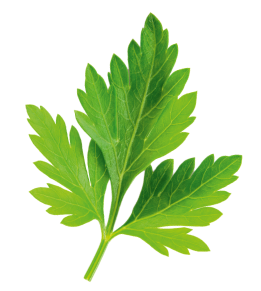
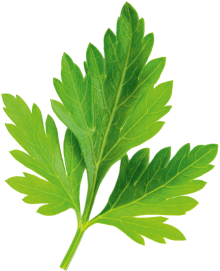
paralax images fix size

Changed region(s): [[0.0, 0.0, 1.0, 1.0], [0.6545, 0.4133, 0.6818, 0.4428]]

diff --git a/css/main.scss b/css/main.scss
@@ -373,6 +373,9 @@ body {
     object-fit: contain;
   }
 }
+// [data-paralax-item] {
+//   background-color: rgba(255, 255, 255, 0.1);
+// }
 
 .second-screen__block {
   &[data-block="1"] {
@@ -399,20 +402,20 @@ body {
     }
     [data-paralax-item="1"] {
       position: absolute;
-      left: -155px;
-      bottom: -160px;
-      width: 370px;
-      height: 290px;
+      left: -100px;
+      bottom: -105px;
+      width: 281px;
+      height: 161px;
       z-index: 3;
     }
 
     [data-paralax-item="2"] {
       z-index: 1;
       position: absolute;
-      right: -70px;
-      top: -160px;
-      width: 300px;
-      height: 290px;
+      right: -44px;
+      top: -152px;
+      width: 231px;
+      height: 278px;
     }
   }
 
@@ -432,29 +435,28 @@ body {
     }
     [data-paralax-item="1"] {
       position: absolute;
-      left: -110px;
-      top: -90px;
-      width: 290px;
-      height: 330px;
+      left: -86px;
+      top: -66px;
+      width: 201px;
+      height: 302px;
       z-index: 1;
     }
 
     [data-paralax-item="2"] {
       position: absolute;
-      right: -135px;
-      bottom: -55px;
-      width: 240px;
-      height: 240px;
+      right: -113px;
+      bottom: -26px;
+      width: 197px;
+      height: 166px;
       z-index: 3;
     }
     [data-paralax-item="3"] {
       position: absolute;
-      left: -25px;
-      bottom: -255px;
-      width: 378px;
-      height: 391px;
+      left: -12px;
+      bottom: -123px;
+      width: 365px;
+      height: 122px;
       z-index: 3;
-      // background-color: rgba(255, 0, 0, 0.2);
     }
   }
 
@@ -474,21 +476,29 @@ body {
     }
     [data-paralax-item="1"] {
       position: absolute;
-      left: -151px;
-      top: -163px;
-      width: 341px;
-      height: 259px;
+      left: -120px;
+      top: -109px;
+      width: 293px;
+      height: 171px;
       z-index: 3;
     }
     [data-paralax-item="2"] {
       position: absolute;
-      right: -151px;
-      bottom: -185px;
-      width: 612px;
-      height: 621px;
+      right: -114px;
+      bottom: -113px;
+      width: 478px;
+      height: 487px;
       z-index: 1;
     }
   }
+}
+
+.contest__paralax {
+  position: absolute;
+  right: -120px;
+  top: 80px;
+  width: 301px;
+  height: 385px;
 }
 
 .contest {
@@ -511,6 +521,7 @@ body {
   }
 
   .contest__title__wrapper {
+    position: relative;
     display: flex;
     justify-content: center;
   }

diff --git a/css/main.css b/css/main.css
@@ -402,19 +402,19 @@ body {
 }
 .second-screen__block[data-block="1"] [data-paralax-item="1"] {
   position: absolute;
-  left: -155px;
-  bottom: -160px;
-  width: 370px;
-  height: 290px;
+  left: -100px;
+  bottom: -105px;
+  width: 281px;
+  height: 161px;
   z-index: 3;
 }
 .second-screen__block[data-block="1"] [data-paralax-item="2"] {
   z-index: 1;
   position: absolute;
-  right: -70px;
-  top: -160px;
-  width: 300px;
-  height: 290px;
+  right: -44px;
+  top: -152px;
+  width: 231px;
+  height: 278px;
 }
 .second-screen__block[data-block="2"] .block__title span {
   width: -moz-fit-content;
@@ -430,26 +430,26 @@ body {
 }
 .second-screen__block[data-block="2"] [data-paralax-item="1"] {
   position: absolute;
-  left: -110px;
-  top: -90px;
-  width: 290px;
-  height: 330px;
+  left: -86px;
+  top: -66px;
+  width: 201px;
+  height: 302px;
   z-index: 1;
 }
 .second-screen__block[data-block="2"] [data-paralax-item="2"] {
   position: absolute;
-  right: -135px;
-  bottom: -55px;
-  width: 240px;
-  height: 240px;
+  right: -113px;
+  bottom: -26px;
+  width: 197px;
+  height: 166px;
   z-index: 3;
 }
 .second-screen__block[data-block="2"] [data-paralax-item="3"] {
   position: absolute;
-  left: -25px;
-  bottom: -255px;
-  width: 378px;
-  height: 391px;
+  left: -12px;
+  bottom: -123px;
+  width: 365px;
+  height: 122px;
   z-index: 3;
 }
 .second-screen__block[data-block="3"] .block__title span {
@@ -466,19 +466,27 @@ body {
 }
 .second-screen__block[data-block="3"] [data-paralax-item="1"] {
   position: absolute;
-  left: -151px;
-  top: -163px;
-  width: 341px;
-  height: 259px;
+  left: -120px;
+  top: -109px;
+  width: 293px;
+  height: 171px;
   z-index: 3;
 }
 .second-screen__block[data-block="3"] [data-paralax-item="2"] {
   position: absolute;
-  right: -151px;
-  bottom: -185px;
-  width: 612px;
-  height: 621px;
+  right: -114px;
+  bottom: -113px;
+  width: 478px;
+  height: 487px;
   z-index: 1;
+}
+
+.contest__paralax {
+  position: absolute;
+  right: -120px;
+  top: 80px;
+  width: 301px;
+  height: 385px;
 }
 
 .contest {
@@ -502,6 +510,7 @@ body {
   margin-top: 20px;
 }
 .contest .contest__title__wrapper {
+  position: relative;
   display: flex;
   justify-content: center;
 }

diff --git a/index.html b/index.html
@@ -165,12 +165,20 @@
                 </div>
             </section>
             <section class="contest">
+
                 <div class="container">
                     <div class="contest__title__wrapper">
                         <div class="contest__title">
                             <div class="title-segment">Внимание,</div>
                             <div class="red-selection title-segment">конкурс</div>
                             <div class="title-segment _small">«Сначала сфоткай, потом съешь»</div>
+                        </div>
+                        <div class="contest__paralax" data-paralax-item="2" data-id="paralax-block">
+                            <div class="contest__paralax-wrapper" data-depth="0.02">
+                                <div class="contest__paralax-container">
+                                    <img src="./img/vegetables-pair.png" alt="">
+                                </div>
+                            </div>
                         </div>
                     </div>
 
